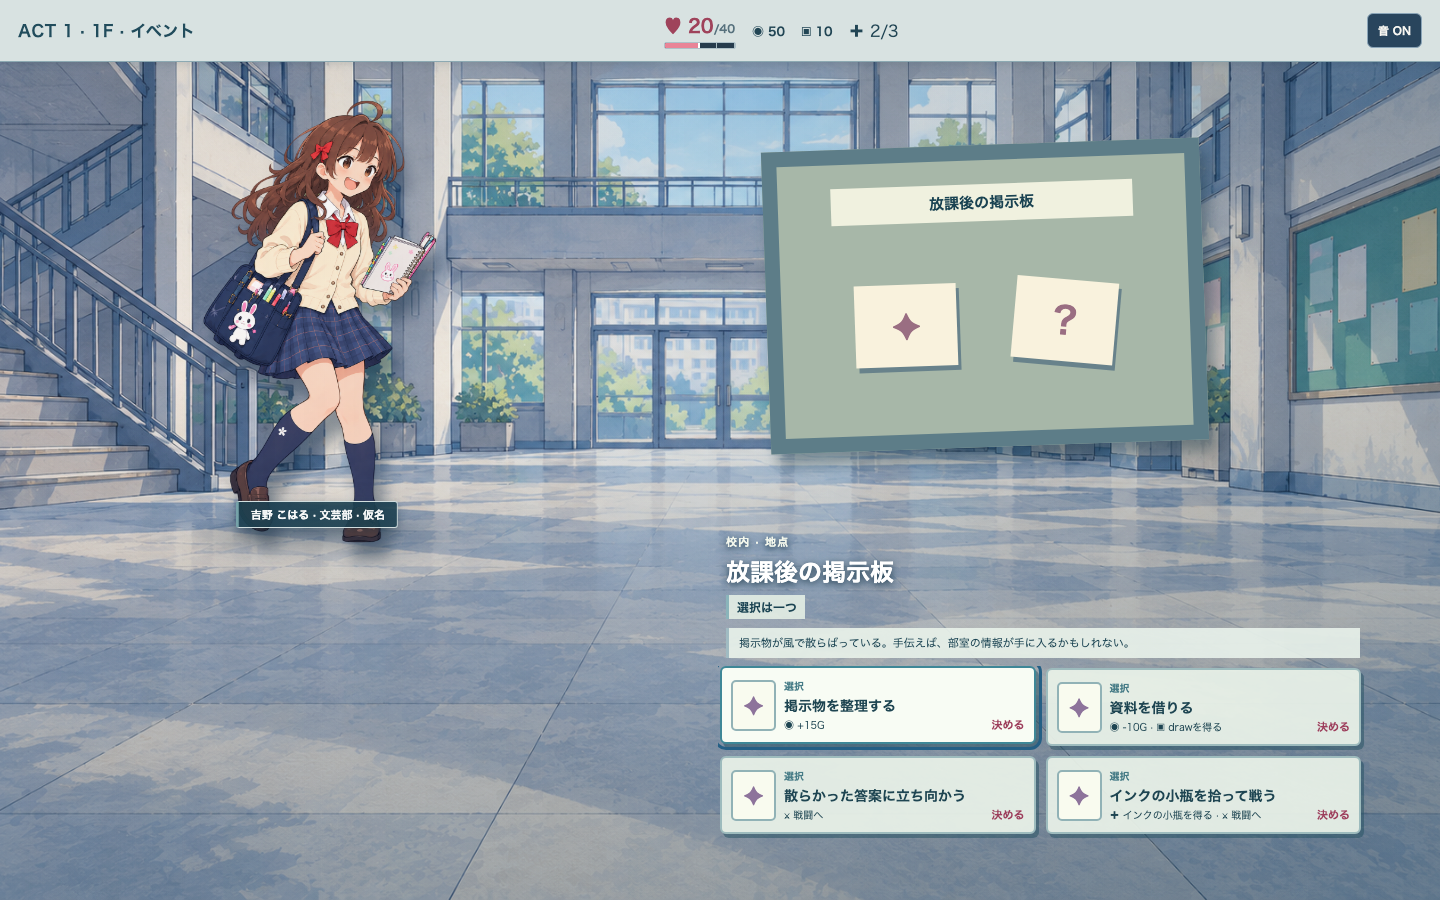
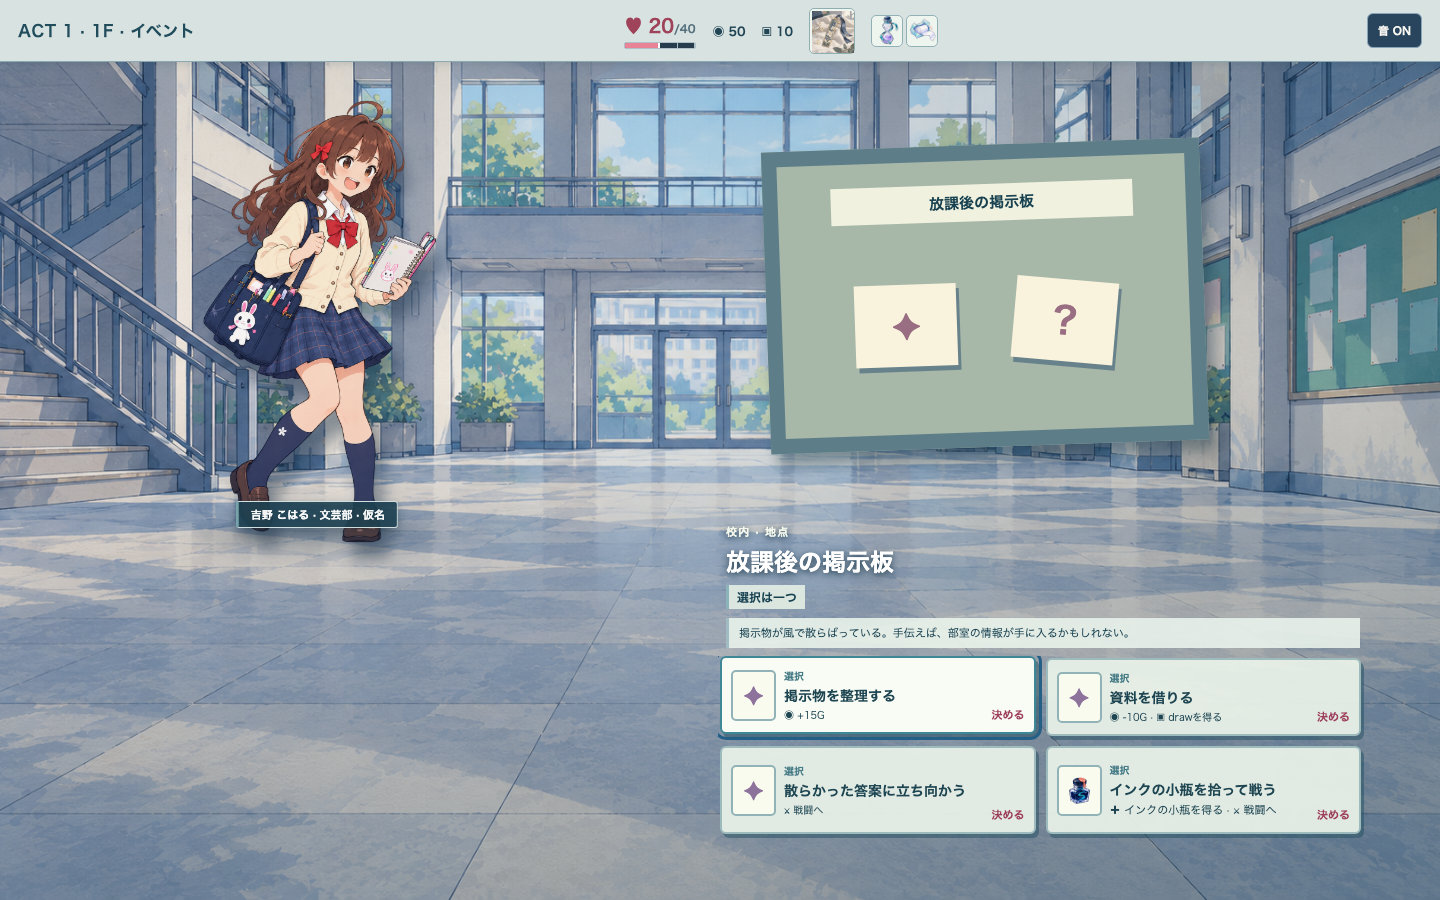
docs: record integrated core verification and viewport evidence

Changed region(s): [[0.5, 0.5911, 0.9688, 0.9333], [0.4375, 0.0, 0.6562, 0.0622]]

diff --git a/docs/qa/issue319-integration.md b/docs/qa/issue319-integration.md
@@ -10,13 +10,19 @@ Status: Draft integration tree. This is not final visual, art or device acceptan
 | 3 | #294 stage runtime | `739598e` | Merged without conflict; owning CI passed |
 | 4 | #271 loss | `9f5ae27` | `game-shell.ts` import conflict resolved: retain `stageSelectionForRun` and add loss view imports; owning CI passed |
 | 5 | #321 combined loss and victory | `f1676c6` | Merged without conflict; owner's focused E2E 27/27 and CI passed |
-| 6 | #312 four special locations | `4bf8125`, then `0d7b0be` | Resolved `app.ts` terminal/location branch and `game-shell.ts`/`main.ts` imports while retaining both terminal states and all four locations; `0d7b0be` updates the 42-location E2E's terminal selector. Owning CI passed on `4bf8125`; newer CI pending. |
+| 6 | #312 four special locations | `4bf8125`, then `0d7b0be` | Resolved `app.ts` terminal/location branch and `game-shell.ts`/`main.ts` imports while retaining both terminal states and all four locations; `0d7b0be` updates the 42-location E2E's terminal selector. Owning CI passed on final HEAD. |
 | 7 | #306 audio | `2f4ae7c` | Combined the treasure acquisition sound with its 340ms local visual feedback; owner's focused 26/26 and CI passed |
 | 8 | #307 visual Intent | `b60e87f`, then `a1d58d4` | Retained stage place metadata and added selected target trajectory to the battle stage. `a1d58d4` hides the preview trajectory while a card resolves; owning focused 4/4 passed, newer CI pending. Candidate visuals remain unaccepted. |
 | 9 | #311 relic/potion visuals | `22e08e8` | Combined item art and detail/activation in `app.ts`/`battle-view.ts`/`main.ts` while retaining sound activation and selected target trajectory; owner check passed (119 unit, 163 integration, 155 E2E), owning CI passed. Candidate art remains unaccepted. |
 
 Later candidate branches include #334 four location prop images, #320 character rig and #335 additional card art. They are separate from this core integration gate until their own branches settle. Do not count a source's earlier passing CI as a pass for this combined tree.
 
-After the terminal/location, visual Intent and item-art conflict resolutions, `npm run typecheck` passed on this integrated tree. Final batched tests and viewport checks remain pending. The four location props, visual Intent symbols and item paintings are production candidates, not final approved art.
+## Combined-tree verification
 
-The integrated tree has not yet run its final batched tests or viewport checks. Candidate art is not approved. iPad hardware and first-time understanding are unverified.
+Core integration HEAD `d6f1e0f` passed `CI=1 SCHOOL_RG_E2E_PORT=56319 npm run check`: lint, typecheck, 122 unit tests, 163 integration tests, art validation, production build, and 189/189 active E2E tests (three intentionally skipped capture-only cases). This includes every club clearing a normal 42-location/three-Act seeded run by typing, shorter three-Act victory and loss, save/load, IME, Intent, audio and quiet mode, and the four special locations. The same HEAD passed [GitHub CI](https://github.com/sato0825/school-rg/actions/runs/41204210188).
+
+The combined tree also passed ten targeted 1440/1024 viewport cases for treasure, shop, rest, event and victory on `CI=1 SCHOOL_RG_E2E_PORT=56321`, and two live final-hit/loss cases on `CI=1 SCHOOL_RG_E2E_PORT=56322`. An isolated integration preview runs at `http://127.0.0.1:56320/?shortRun=1&seed=42`. A Playwright-operated first combat at both widths reached reward by typed cards and captured map, combat and reward. The location tests exercised choices, save restore and return to route; the victory/loss tests exercised terminal state and its controls. These are desktop-browser viewport checks, not physical iPad acceptance.
+
+Combined screenshots are in the task `outputs/` directory under `issue319-integrated-` for map, battle, reward, treasure, shop, rest, event, victory and loss at 1440/1024. The original `issue286-live-*` and `issue268-loss-real-*` capture paths in this branch were refreshed by the integrated test run; owning branches were not altered. The viewport evidence still shows blank illustration slots in some initial hand cards and placeholder text/geometry in several location interactions. Candidate art is not approved. First-time understanding, physical iPad and final visual quality remain unverified.
+
+Later candidates #334 (four location props; held because its CI found a real Act 2 loss), #320 (character rig and effect propagation), #335 (additional card art) and #324 (one enemy action painting) are outside this validated core HEAD. They require a new combined-tree gate if included.
